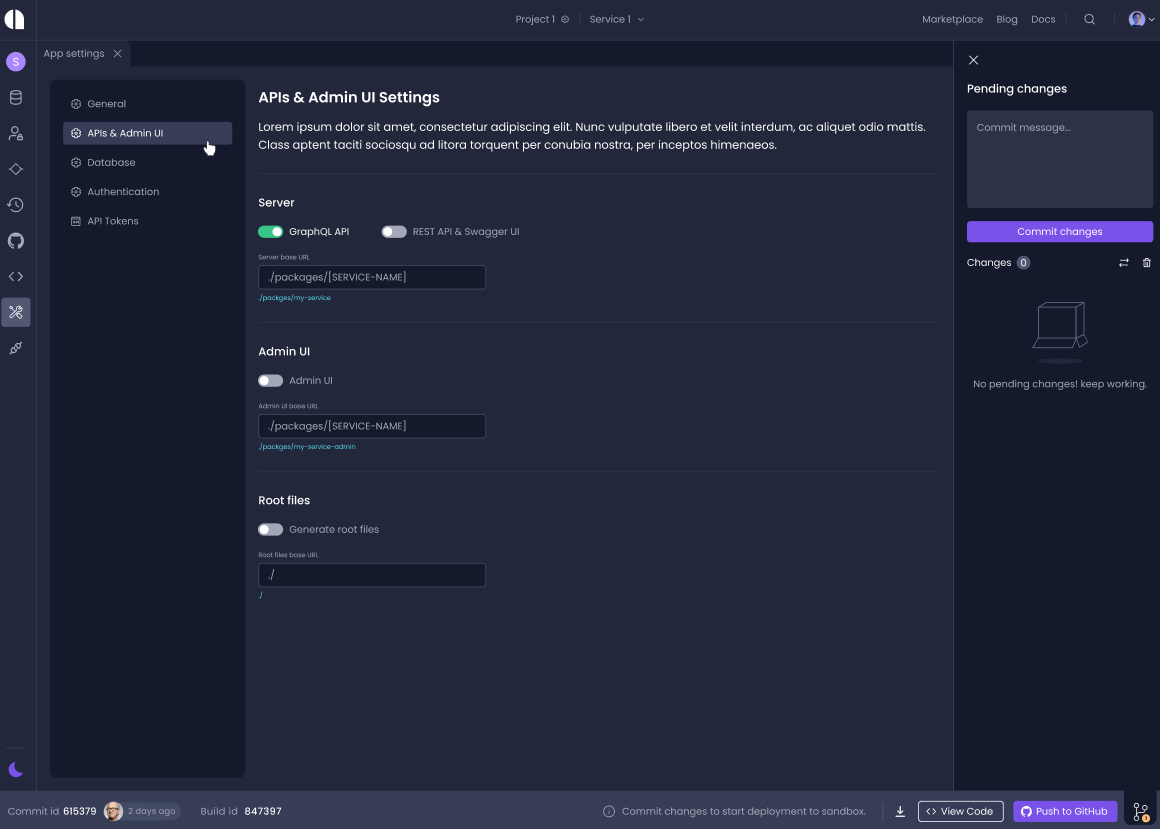
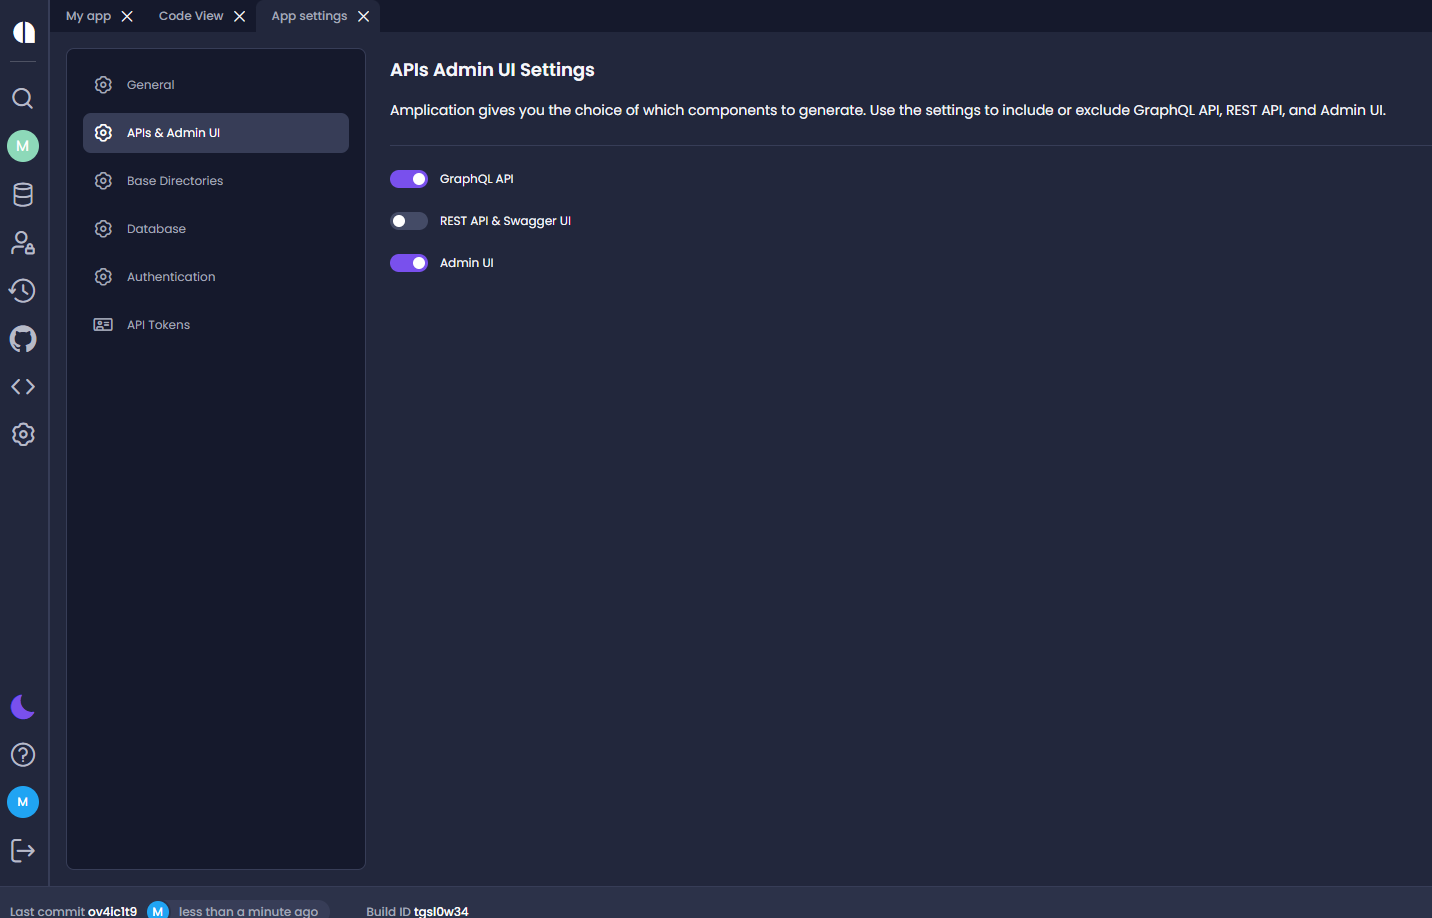
updated-screen-and-steps

diff --git a/docs/how-to/api-adminui-settings.md b/docs/how-to/api-adminui-settings.md
@@ -16,28 +16,19 @@ Amplication enables you to include or exclude the following components from the 
 
 
 
-## Selecting which  elements to generate
+## Selecting which components to generate
 
 
 
-1. In **App settings**, select **APIs and Admin UI**
+1. In **App settings**, select **APIs & Admin UI**.
 
 ![](./assets/api-admin-ui-settings.png)
 
-2. Configure the settings as follows:
-    - **Server** - activate or deactivate  **GraphQL API** and **REST API and Swagger UI**
-    - **Admin UI** - activate or deactivate **Admin UI**
-    - **Generate root files** -  activated or deactivate **Generate root files**
+2. Click the toggle switch to activate or deactivate the following:
+    - **GraphQL API** 
+    - **REST API & Swagger UI**
+    - **Admin UI**
 
 :::tip
-Admin UI requires GraphQL to work, so if GraphQL is disabled, then Admin UI cannot be activated. 
+**Admin UI** can be selected only if **GraphQL API** has been selected. 
 ::: 
-
-
-## Next steps
-
-Continue with one of the following:  
-
-- View Code
-- Commit changes to start deployment to sandbox
-- Push to GitHub
